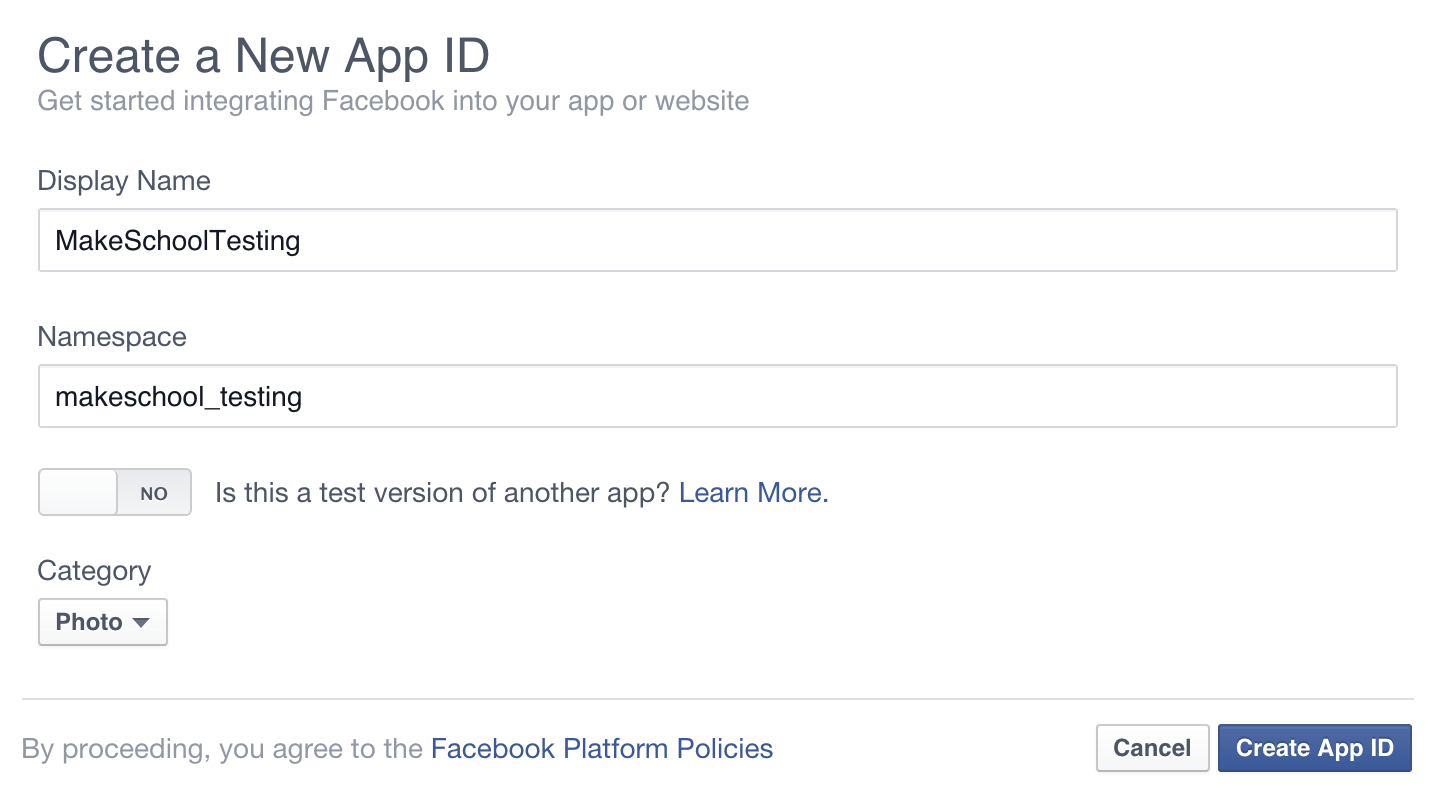
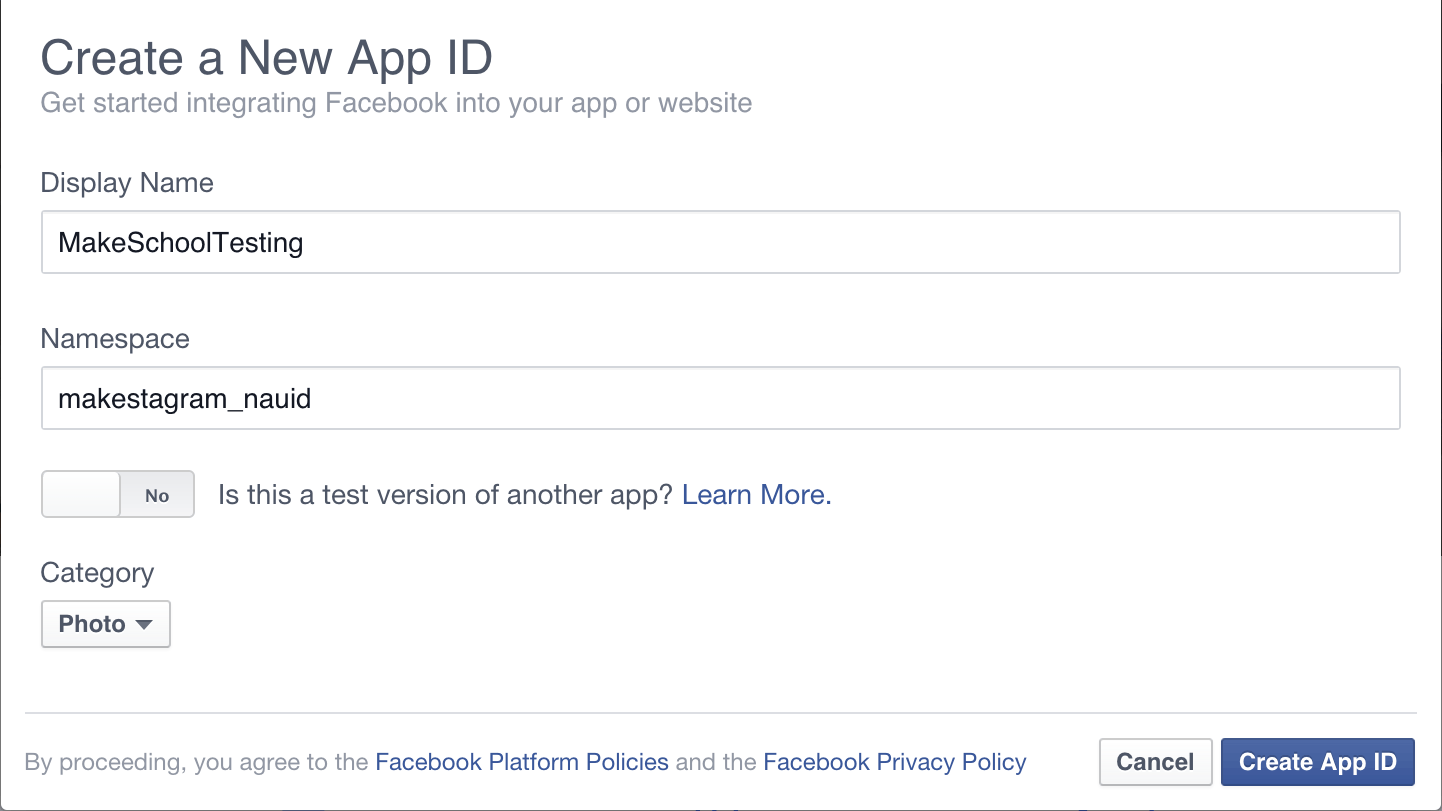
fix instructions for facebook app namespace

diff --git a/P21-Signup-Login/content.md b/P21-Signup-Login/content.md
@@ -198,7 +198,7 @@ To be able to login with Facebook, we need to register our app with their platfo
 Let's create a new Facebook app.
 
 > [action]
-> Open the Developer Portal through [this link](https://developers.facebook.com/?advanced_app_create=true). You should immediately see a popup that asks you for information about your app. Fill it out as shown below:
+> Open the Developer Portal through [this link](https://developers.facebook.com/?advanced_app_create=true). You should immediately see a popup that asks you for information about your app. Fill it out as shown below, but instead of *makestagram_nauid* put *makestagram_abcde* where *abcde* is your own random 5 characters at the end.
 ![image](facebook/new_app_popup.png)
 
 After you provided the information you will be redirected to the dashboard of your app.
